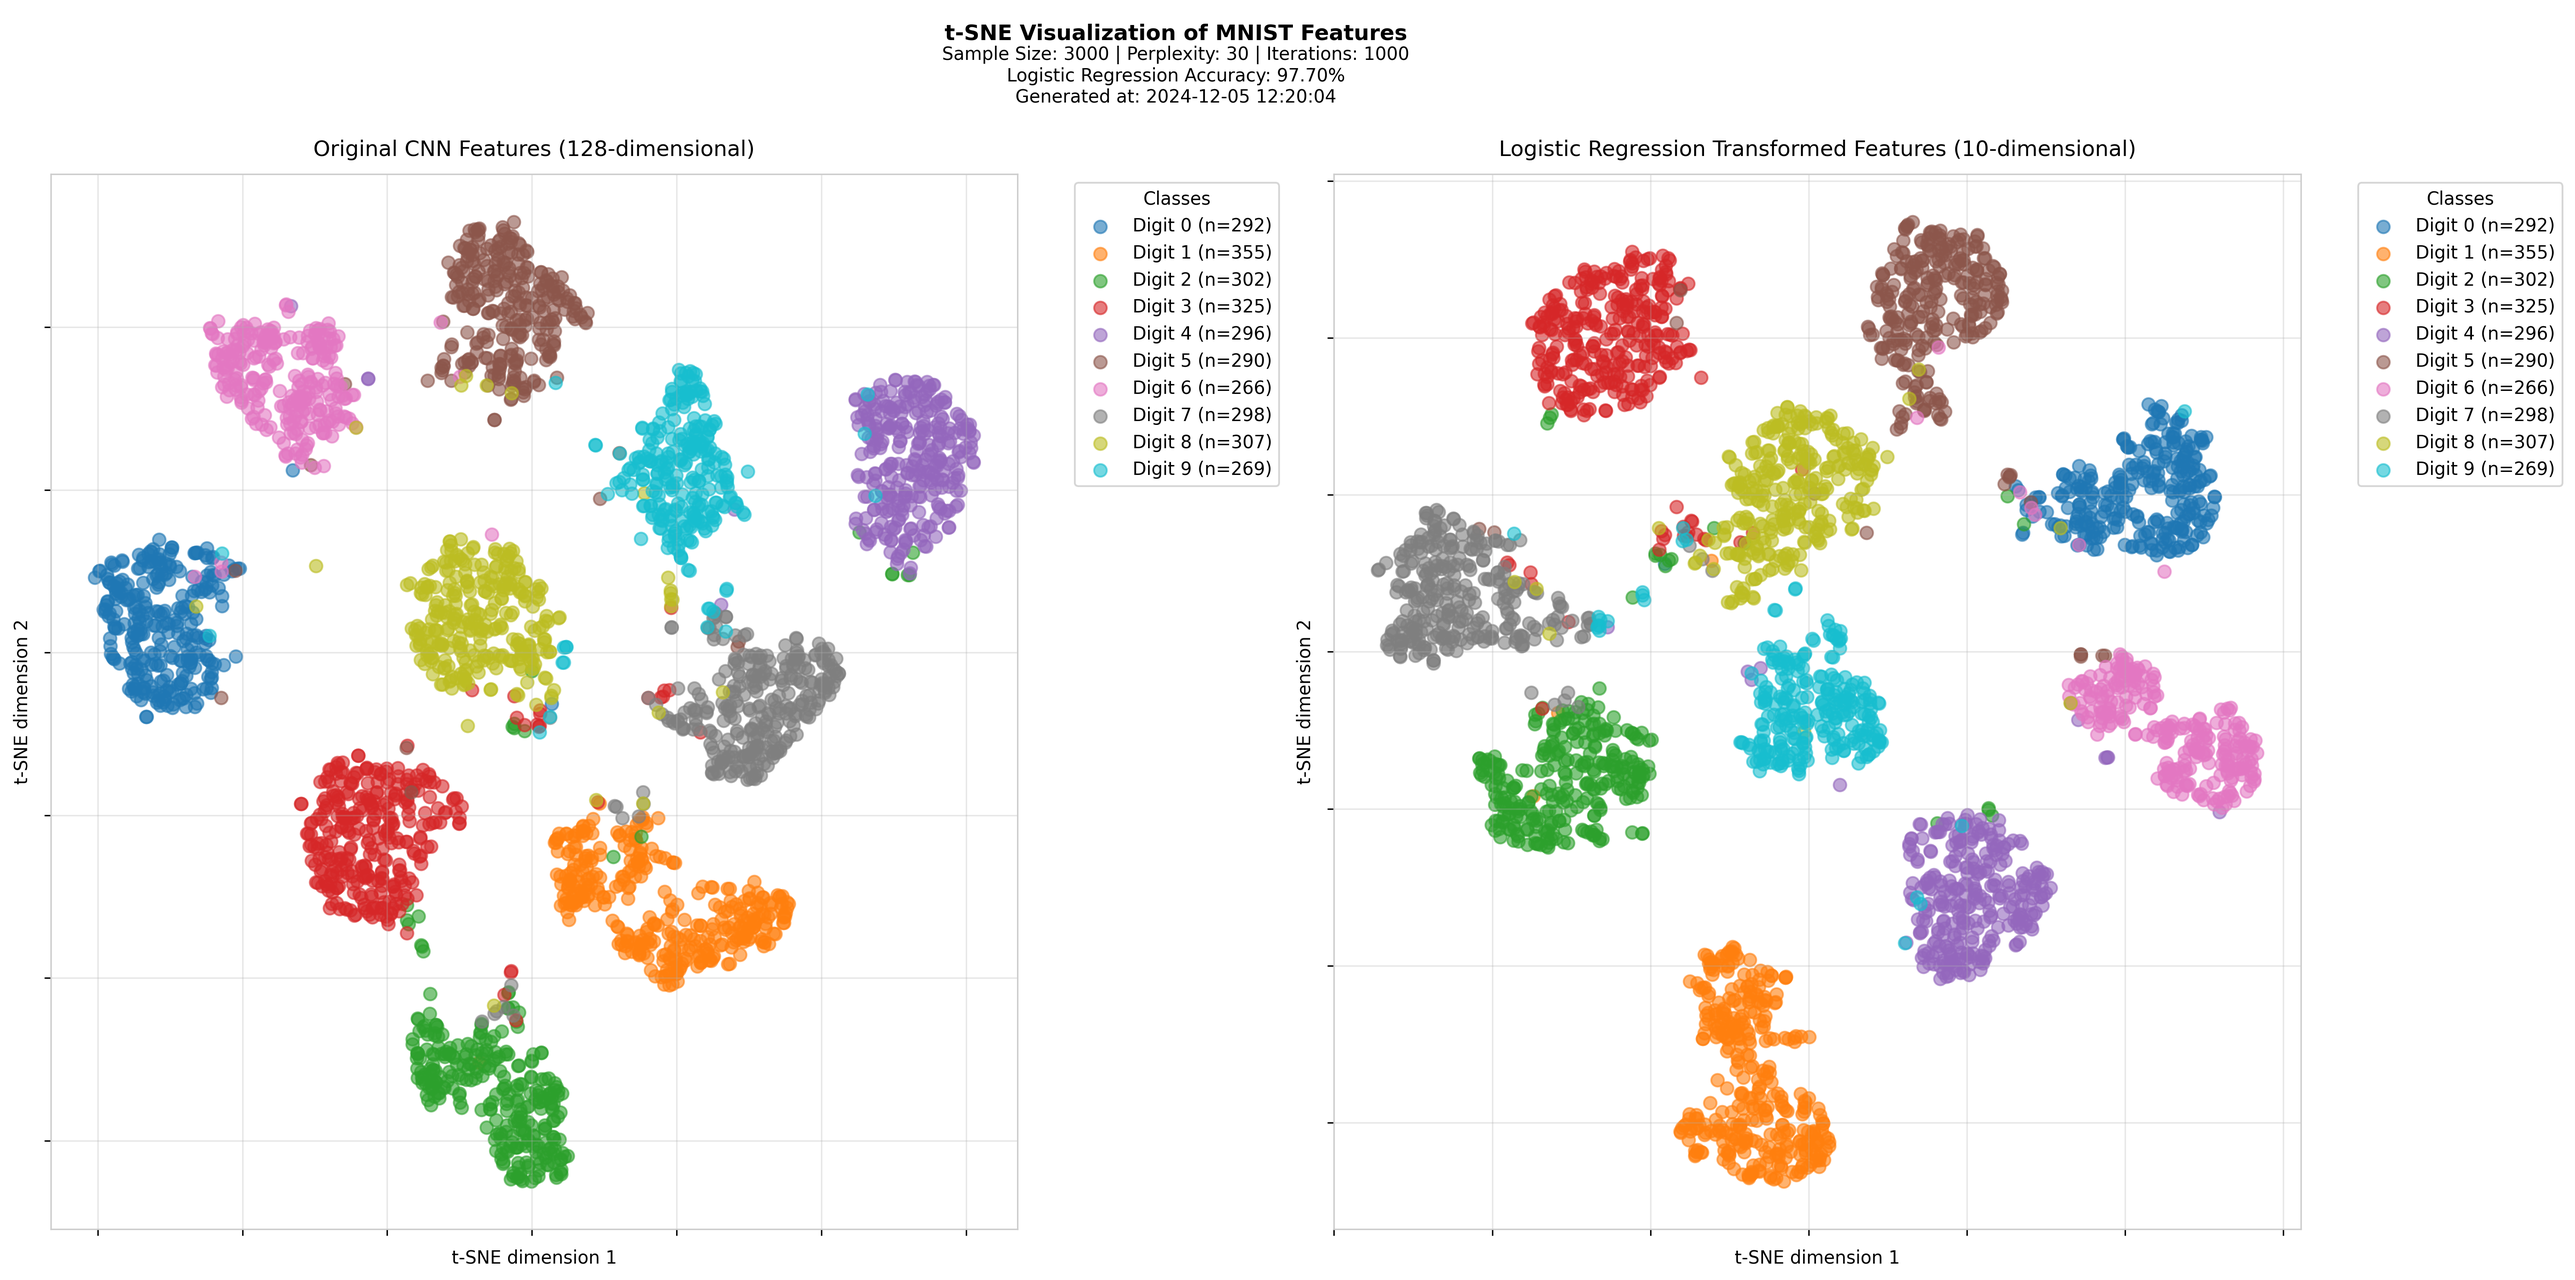
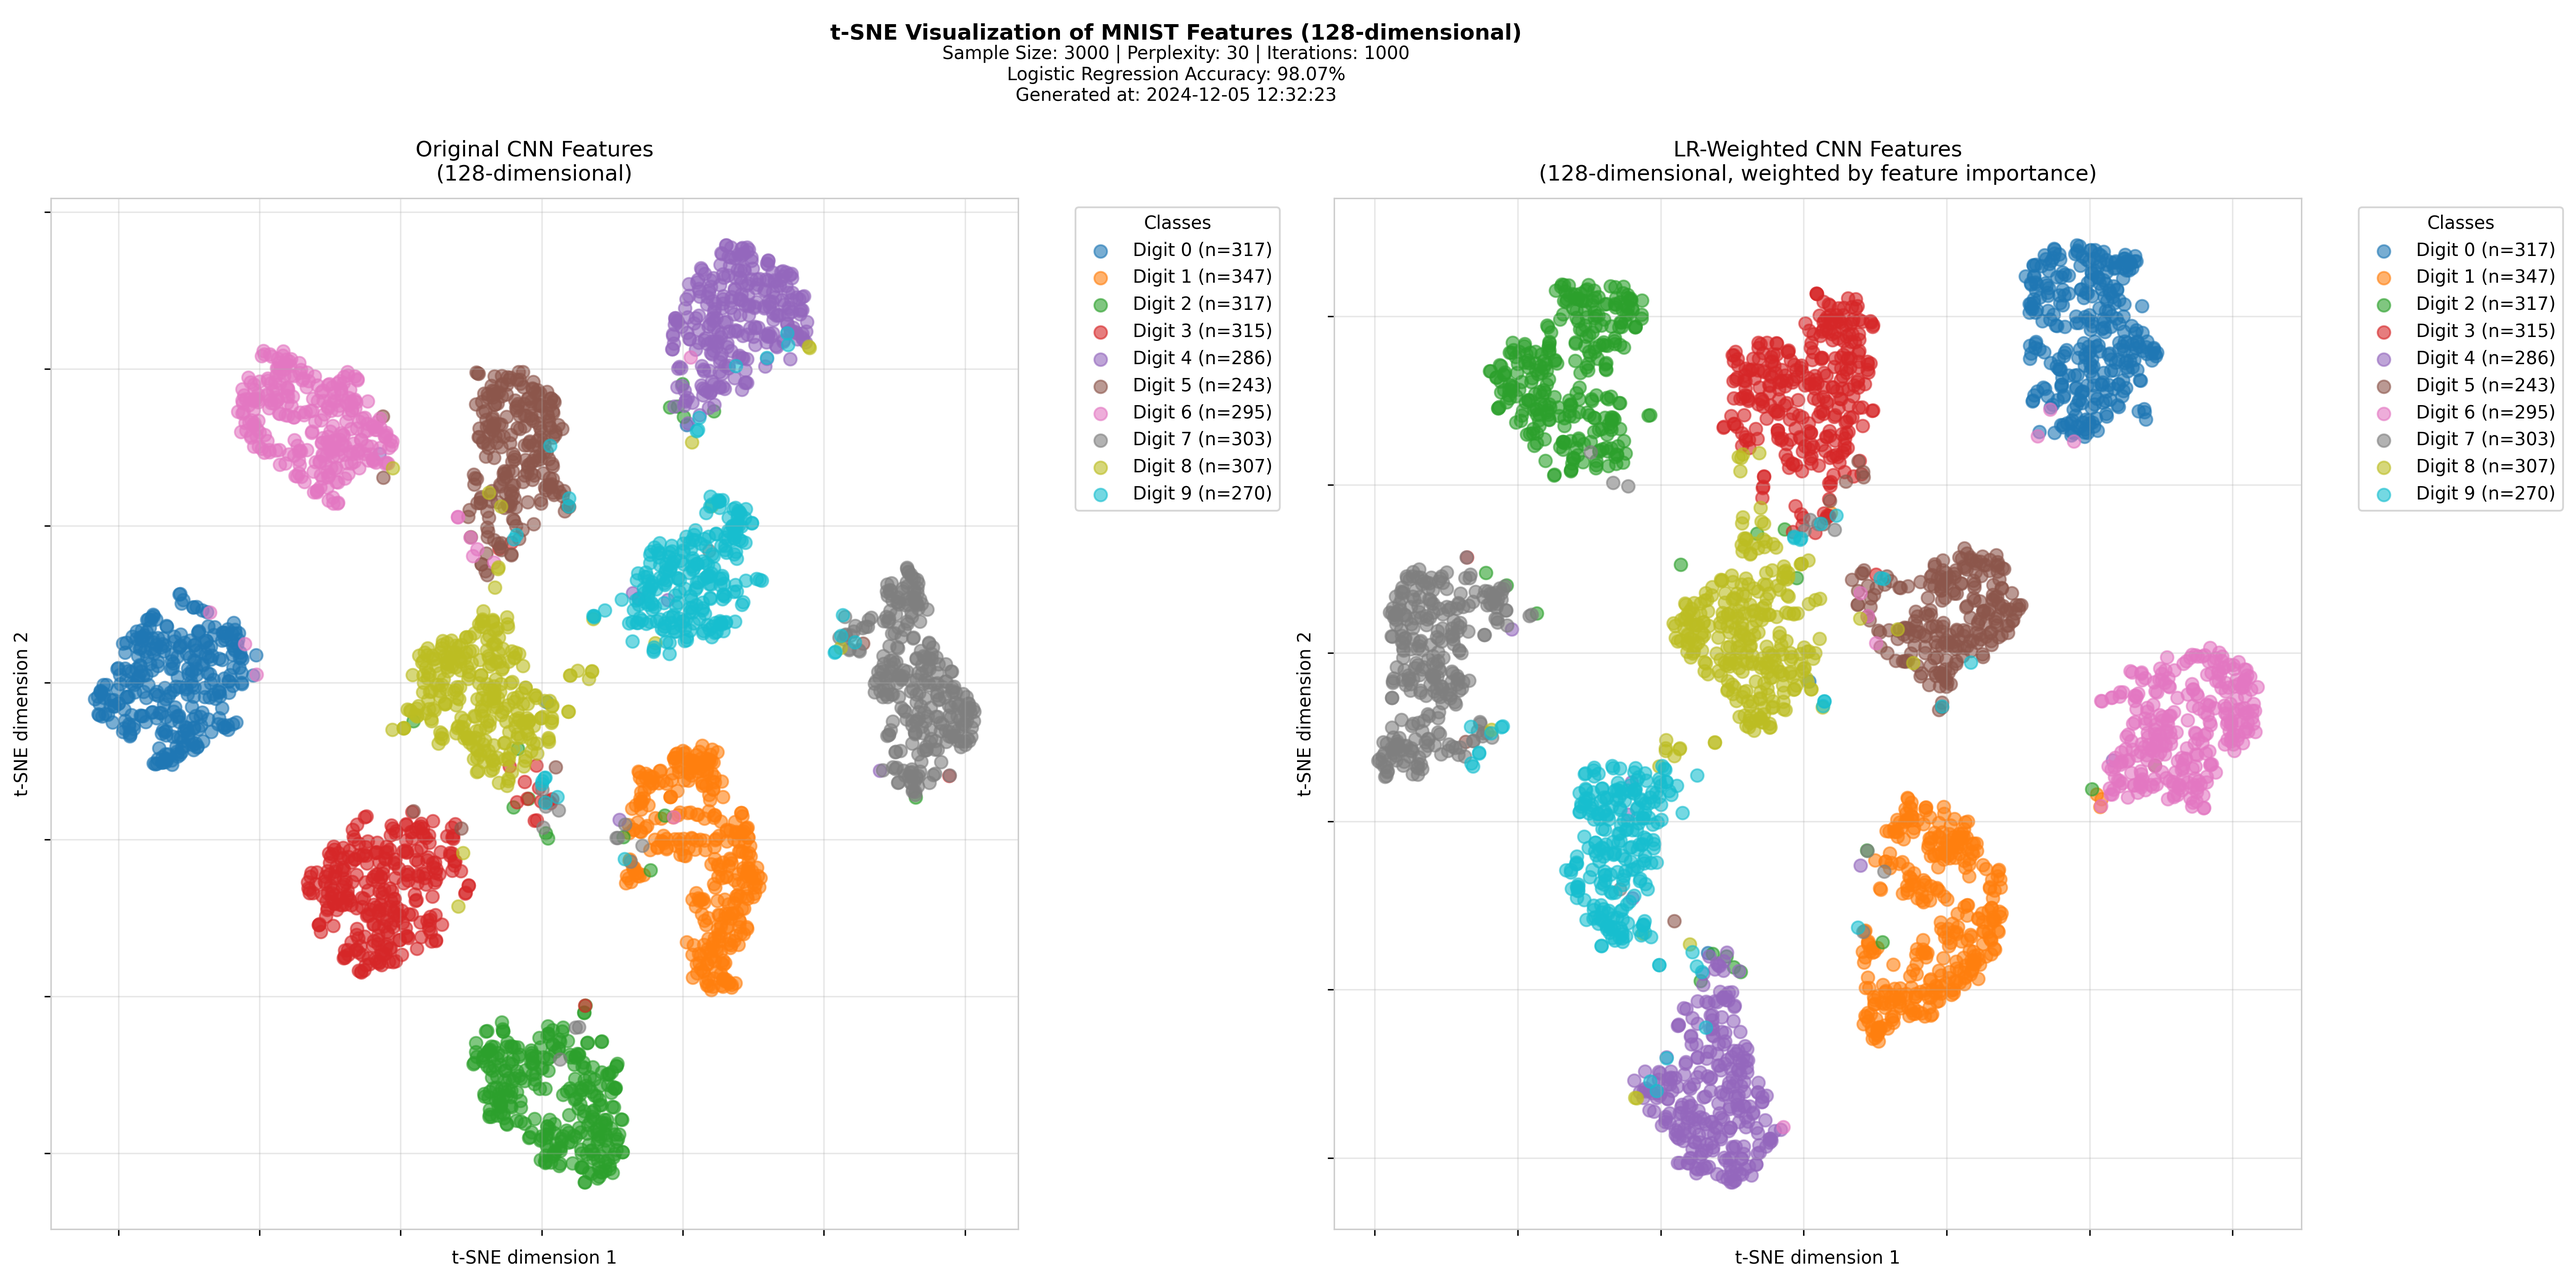
Enhance t-SNE visualization by computing weighted features based on Logistic Regression importance
- Added a new function to compute weighted features using Logistic Regression coefficients.
- Updated the t-SNE visualization function to plot weighted features instead of raw LR-transformed features.
- Improved plot titles for clarity, indicating the dimensionality and weighting method used.
- Adjusted the main function to reflect changes in feature computation and visualization.

diff --git a/tsne_visualization_with_lr.py b/tsne_visualization_with_lr.py
@@ -41,7 +41,24 @@ def extract_features(model, data_loader, device, num_samples=3000):
     
     return np.vstack(features), np.concatenate(labels)
 
-def plot_tsne_comparison(features, lr_features, labels, lr_accuracy, perplexity=30, n_iter=1000):
+def compute_weighted_features(features, lr_model):
+    """計算基於 Logistic Regression 權重的加權特徵"""
+    # 獲取權重矩陣 (128 x 10)
+    weights = lr_model.coef_.T  # 轉置為 (128 x 10)
+    
+    # 計算每個特徵維度的重要性分數 (128,)
+    # 使用 L2 norm 來衡量每個特徵在所有類別上的重要性
+    feature_importance = np.sqrt(np.sum(weights ** 2, axis=1))
+    
+    # 將重要性分數歸一化到 [0, 1] 區間
+    feature_importance = (feature_importance - feature_importance.min()) / (feature_importance.max() - feature_importance.min())
+    
+    # 使用重要性分數來加權原始特徵
+    weighted_features = features * feature_importance.reshape(1, -1)
+    
+    return weighted_features
+
+def plot_tsne_comparison(features, weighted_features, labels, lr_accuracy, perplexity=30, n_iter=1000):
     # 設置 matplotlib 風格
     plt.style.use('default')
     plt.rcParams['axes.grid'] = True
@@ -59,7 +76,7 @@ def plot_tsne_comparison(features, lr_features, labels, lr_accuracy, perplexity=
     
     # 設置總標題
     title_text = [
-        "t-SNE Visualization of MNIST Features",
+        "t-SNE Visualization of MNIST Features (128-dimensional)",
         f"Sample Size: {len(labels)} | Perplexity: {perplexity} | Iterations: {n_iter}",
         f"Logistic Regression Accuracy: {lr_accuracy*100:.2f}%",
         f"Generated at: {datetime.now().strftime('%Y-%m-%d %H:%M:%S')}"
@@ -91,21 +108,22 @@ def plot_tsne_comparison(features, lr_features, labels, lr_accuracy, perplexity=
         ax1.scatter(features_tsne[mask, 0], features_tsne[mask, 1],
                    c=[colors[i]], label=f'Digit {i} (n={class_info[i]})',
                    alpha=0.6, s=50)
-    ax1.set_title('Original CNN Features (128-dimensional)', pad=10, fontsize=12)
+    ax1.set_title('Original CNN Features\n(128-dimensional)', pad=10, fontsize=12)
     ax1.legend(bbox_to_anchor=(1.05, 1), loc='upper left', title='Classes')
     
-    # 對 LR 轉換後的特徵執行 t-SNE
-    print("Performing t-SNE on LR transformed features...")
-    tsne_lr = TSNE(n_components=2, perplexity=perplexity, n_iter=n_iter, random_state=42)
-    lr_features_tsne = tsne_lr.fit_transform(lr_features)
+    # 對加權特徵執行 t-SNE
+    print("Performing t-SNE on weighted features...")
+    tsne_weighted = TSNE(n_components=2, perplexity=perplexity, n_iter=n_iter, random_state=42)
+    weighted_features_tsne = tsne_weighted.fit_transform(weighted_features)
     
-    # 繪製 LR 轉換後特徵的散點圖
+    # 繪製加權特徵的散點圖
     for i in range(10):
         mask = labels == i
-        ax2.scatter(lr_features_tsne[mask, 0], lr_features_tsne[mask, 1],
+        ax2.scatter(weighted_features_tsne[mask, 0], weighted_features_tsne[mask, 1],
                    c=[colors[i]], label=f'Digit {i} (n={class_info[i]})',
                    alpha=0.6, s=50)
-    ax2.set_title('Logistic Regression Transformed Features (10-dimensional)', pad=10, fontsize=12)
+    ax2.set_title('LR-Weighted CNN Features\n(128-dimensional, weighted by feature importance)', 
+                 pad=10, fontsize=12)
     ax2.legend(bbox_to_anchor=(1.05, 1), loc='upper left', title='Classes')
     
     # 添加軸標籤和網格
@@ -154,15 +172,16 @@ def main():
     print("Extracting features...")
     features, labels = extract_features(model, test_loader, device)
     
-    # 使用已訓練好的 LR 模型轉換特徵
-    lr_features = lr.decision_function(features)
+    # 計算加權特徵
+    print("Computing weighted features...")
+    weighted_features = compute_weighted_features(features, lr)
     
     # 計算準確率
     lr_pred = lr.predict(features)
     accuracy = accuracy_score(labels, lr_pred)
     
     # 執行 t-SNE 並繪圖比較
-    plot_tsne_comparison(features, lr_features, labels, accuracy)
+    plot_tsne_comparison(features, weighted_features, labels, accuracy)
 
 if __name__ == '__main__':
     main() 
